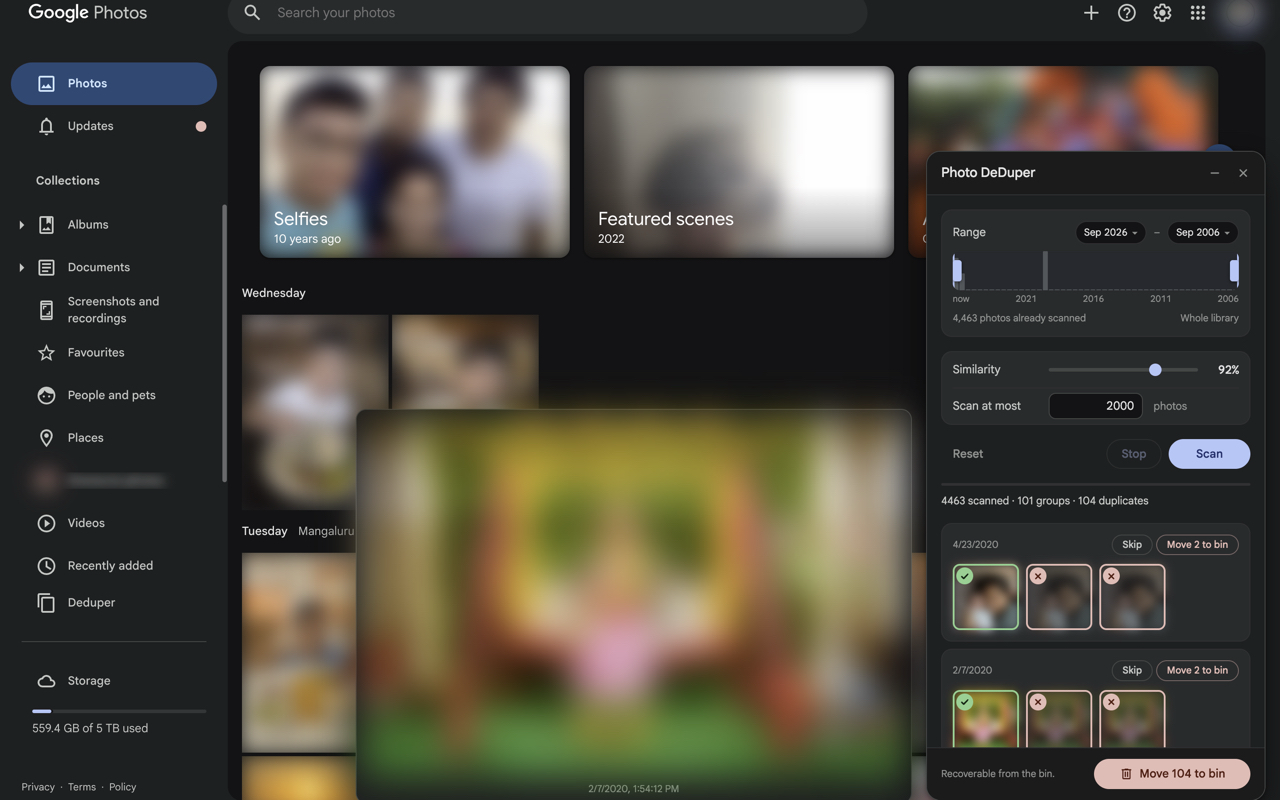
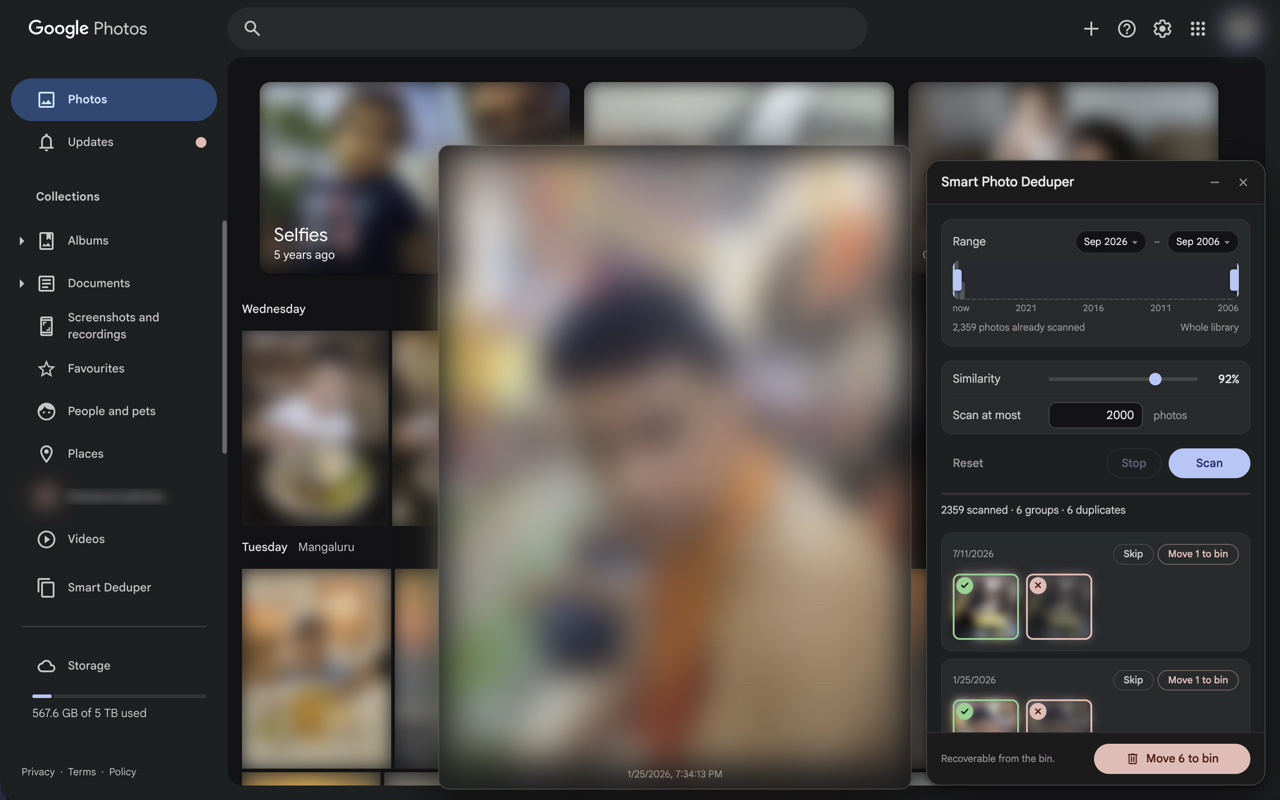
refactor(nav): the sidebar entry says Smart Deduper
And every screenshot is retaken against the renamed build, so the panel header
and the sidebar entry on the listing match what is installed.

diff --git a/src/ui/nav.js b/src/ui/nav.js
@@ -1,4 +1,4 @@
-// A "Deduper" entry in Google Photos' own sidebar, above the storage section,
+// A "Smart Deduper" entry in Google Photos' own sidebar, above the storage section,
 // that shows or hides the panel. It is a clone of the Bin entry with its content swapped,
 // so it borrows whatever classes the sidebar is using this week and follows
 // it when it collapses to icons.
@@ -29,7 +29,7 @@ window.GPDD.ui = window.GPDD.ui || {};
     // routing and logging hooks, which must not fire for an entry of ours.
     [...a.attributes].forEach((at) => { if (at.name !== 'class') a.removeAttribute(at.name); });
     a.setAttribute('role', 'button');
-    a.setAttribute('aria-label', 'Deduper');
+    a.setAttribute('aria-label', 'Smart Deduper');
     a.setAttribute('aria-pressed', 'false');
     a.tabIndex = 0;
     a.dataset.gpdd = 'nav';
@@ -37,7 +37,7 @@ window.GPDD.ui = window.GPDD.ui || {};
     if (path) path.setAttribute('d', GLYPH);
     // The label is the innermost element that holds the text.
     const label = [...a.querySelectorAll('*')].reverse().find((el) => !el.children.length && el.textContent.trim());
-    if (label) label.textContent = 'Deduper';
+    if (label) label.textContent = 'Smart Deduper';
     // The page delegates clicks at the document, so a click here must stop
     // before it gets there, or the sidebar treats it as a navigation.
     a.addEventListener('click', (e) => { e.preventDefault(); e.stopPropagation(); onClick(); });
@@ -75,7 +75,7 @@ window.GPDD.ui = window.GPDD.ui || {};
             opacity: 1;
           }
         </style>
-        <div class="n">Smart Photo Deduper is closed. Open it again from <b>Deduper</b> in the sidebar.</div>
+        <div class="n">Smart Photo Deduper is closed. Open it again from <b>Smart Deduper</b> in the sidebar.</div>
       `;
       document.documentElement.append(note);
     }

diff --git a/README.md b/README.md
@@ -33,9 +33,9 @@ photo in the group is marked for the bin, and Skip leaves the whole group alone.
 _Hovering a thumbnail shows it large with its capture time, so two near-identical
 shots can be told apart before either is deleted._
 
-![The panel closed, with a note beside the Deduper entry in the Google Photos sidebar](store/screenshots/04-sidebar.png)
+![The panel closed, with a note beside the Smart Deduper entry in the Google Photos sidebar](store/screenshots/04-sidebar.png)
 
-_Closing the panel keeps it closed. It opens again from **Deduper** in Google
+_Closing the panel keeps it closed. It opens again from **Smart Deduper** in Google
 Photos' own sidebar, which is where the note points._
 
 _Photos are blurred in every screenshot here — a real library is somebody's
@@ -80,7 +80,7 @@ Unpacked, until the Chrome Web Store listing is live.
 
 1. `chrome://extensions` → enable **Developer mode**
 2. **Load unpacked** → select this folder
-3. Open <https://photos.google.com>. Show or hide the panel from **Deduper** in
+3. Open <https://photos.google.com>. Show or hide the panel from **Smart Deduper** in
    the sidebar, below Bin, or from the extension's toolbar icon.
 
 ## First run — do this before pointing it at anything large
@@ -116,7 +116,7 @@ Only then raise the cap.
 
    The minimise button collapses the panel to its title bar. The close button
    next to it hides the panel and keeps it hidden across reloads — a note by the
-   sidebar says so — until **Deduper** in the sidebar opens it again.
+   sidebar says so — until **Smart Deduper** in the sidebar opens it again.
 
 4. **Move selected to bin** — click it twice (the button arms itself for fifteen
    seconds rather than opening a dialog; a content script's native `confirm()`
@@ -144,7 +144,7 @@ and each registers itself on `window.GPDD`.
   `styles` (design tokens and the shared chrome, controls and buttons) and
   `icons` (inline SVG), `range` (month slider), `preview` (the hover preview),
   `results` (group cards, paging, selection), `panel` (template, `mount()`,
-  status setters), `nav` (the Deduper entry in Google Photos' sidebar). Each of `range`, `preview` and `results` carries its own
+  status setters), `nav` (the Smart Deduper entry in Google Photos' sidebar). Each of `range`, `preview` and `results` carries its own
   markup and CSS next to its code; `panel` concatenates the four stylesheets.
 - `src/content.js` — wiring: state, the scan, delete and undo flows, each
   bracketed by the same run lock.

diff --git a/STORE.md b/STORE.md
@@ -18,7 +18,7 @@ Copy for the Developer Dashboard. Keep this file in step with `manifest.json`.
 > lets you clear them out in bulk.
 >
 > How it works
-> • Open photos.google.com. The panel opens from "Deduper" in the sidebar,
+> • Open photos.google.com. The panel opens from "Smart Deduper" in the sidebar,
 >   below Bin, or from the toolbar icon.
 > • Pick a date range and a similarity threshold, then scan. Thumbnails are
 >   fingerprinted in your own browser; nothing is uploaded anywhere.
@@ -53,7 +53,7 @@ Copy for the Developer Dashboard. Keep this file in step with `manifest.json`.
 | `01-start.png` | The panel before a scan: date range, similarity and the scan button, nothing found yet |
 | `02-groups.png` | Duplicate groups, each with its keeper ringed green and the others marked for the bin |
 | `03-preview.png` | A hovered thumbnail shown large with its capture time |
-| `04-sidebar.png` | The panel closed, with the note pointing at the Deduper entry in Google's own sidebar |
+| `04-sidebar.png` | The panel closed, with the note pointing at the Smart Deduper entry in Google's own sidebar |
 
 They were taken against a real library, so every photo is blurred in CSS before
 capture — a listing screenshot is public. `src/dev-shot.js` does the blurring;
